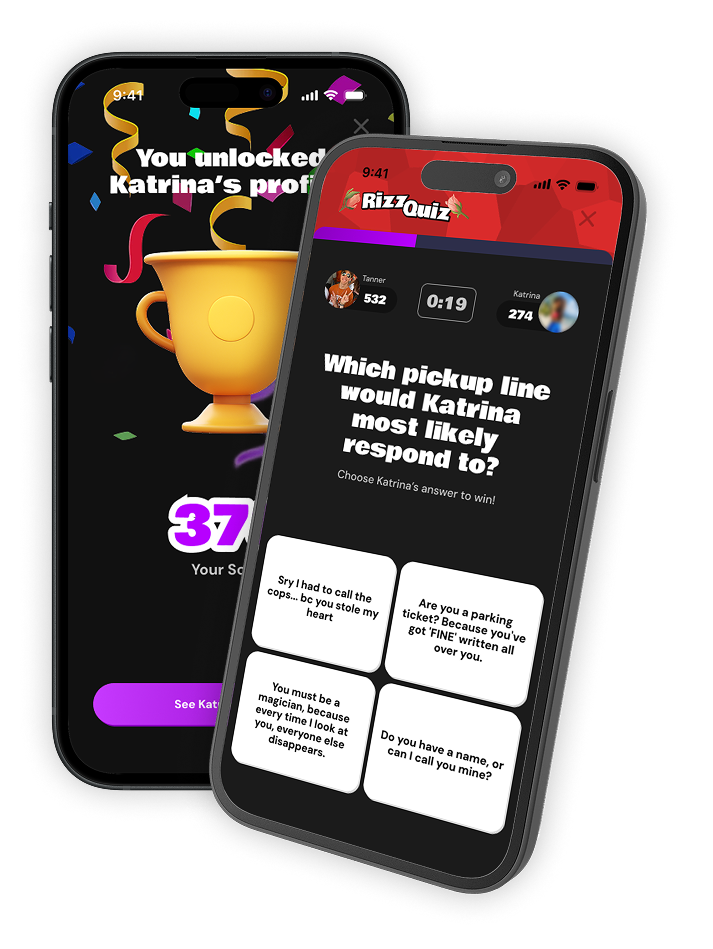
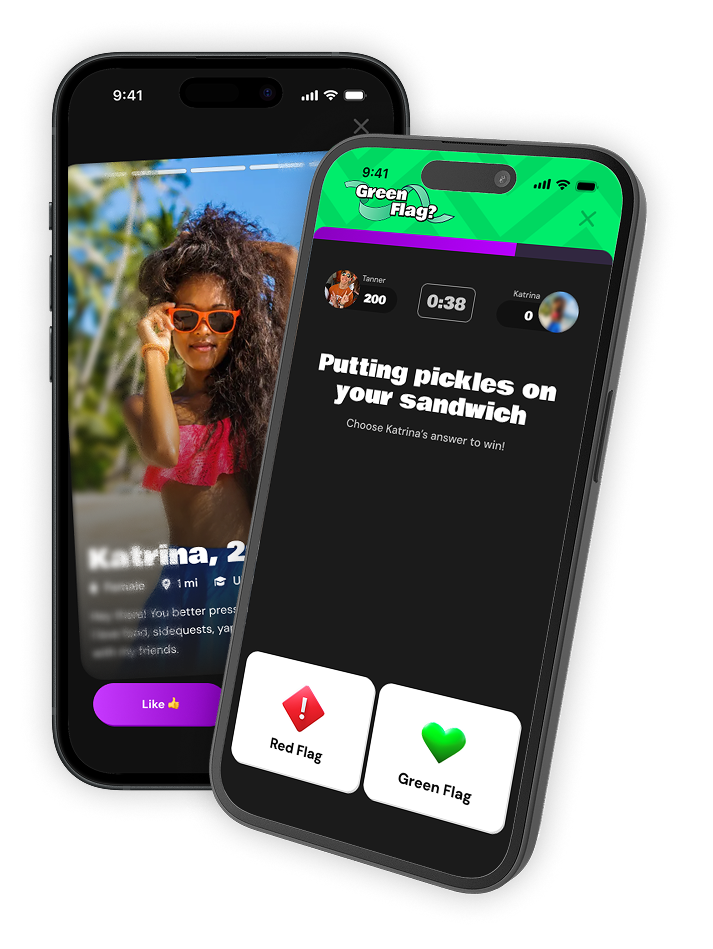
Update screenshots and marketing copy

diff --git a/src/pages/Home.jsx b/src/pages/Home.jsx
@@ -5,6 +5,7 @@ import wordUnscrambleBackground from "../assets/images/Word Unscramble Backgroun
 import rizzQuizBackground from "../assets/images/Rizz Quiz Background.png";
 import greenFlagBackground from "../assets/images/Green Flag Background.png";
 import greenFlagScreenshot from "../assets/images/Green Flag Screenshot.png";
+import rizzQuizScreenshot from "../assets/images/Rizz Quiz Screenshot.png";
 import resultsWinScreenshot from "../assets/images/Results (Win) Screenshot.png";
 import resultsWinMatchScreenshot from "../assets/images/Results (Win - Match) Screenshot.png";
 import resultsWinProposeDateScreenshot from "../assets/images/Results (Win - Propose Date) Screenshot.png";
@@ -142,9 +143,8 @@ function Home() {
               The mobile dating game
             </h1>
             <p className="hero-description animate-on-scroll">
-              We built a dating game show in your pocket! Play quick games to
-              learn more about potential matches, unlock their profiles, and go
-              on dates.
+              We built a dating game show in your pocket! Play games, unlock
+              profiles, and go on dates with other UT students.
             </p>
             <button
               className="btn-app-store"
@@ -152,7 +152,7 @@ function Home() {
                 window.open(
                   "https://apps.apple.com/us/app/lume-the-mobile-dating-game/id6752439265",
                   "_blank",
-                  "noopener,noreferrer"
+                  "noopener,noreferrer",
                 )
               }
             >
@@ -184,8 +184,8 @@ function Home() {
               profile
             </p>
             <img
-              src={greenFlagScreenshot}
-              alt="Green Flag game screenshot"
+              src={rizzQuizScreenshot}
+              alt="Rizz Quiz game screenshot"
               className="step-screenshot"
             />
           </div>
@@ -202,7 +202,8 @@ function Home() {
           </div>
           <div className="step-panel">
             <p className="step-text animate-on-scroll">
-              If you both unlock each other's profiles, win a date at a local restaurant!
+              If you both unlock each other's profiles, go on a date at a local
+              restaurant!
             </p>
             <img
               src={resultsWinProposeDateScreenshot}
@@ -263,7 +264,7 @@ function Home() {
               window.open(
                 "https://apps.apple.com/us/app/lume-the-mobile-dating-game/id6752439265",
                 "_blank",
-                "noopener,noreferrer"
+                "noopener,noreferrer",
               )
             }
           >
@@ -281,7 +282,7 @@ function Home() {
               window.open(
                 "https://www.instagram.com/lumeapp/",
                 "_blank",
-                "noopener,noreferrer"
+                "noopener,noreferrer",
               )
             }
           >

diff --git a/src/App.css b/src/App.css
@@ -490,10 +490,10 @@
 }
 
 .hero-screenshots {
-  width: 100%;
-  height: 200%;
+  width: 95%;
+  height: 190%;
   object-fit: contain;
-  max-width: 1400px;
+  max-width: 1350px;
   object-position: center top;
   transform: translateY(-5%);
 }

diff --git a/src/components/Footer.jsx b/src/components/Footer.jsx
@@ -29,4 +29,3 @@ function Footer() {
 }
 
 export default Footer;
-
